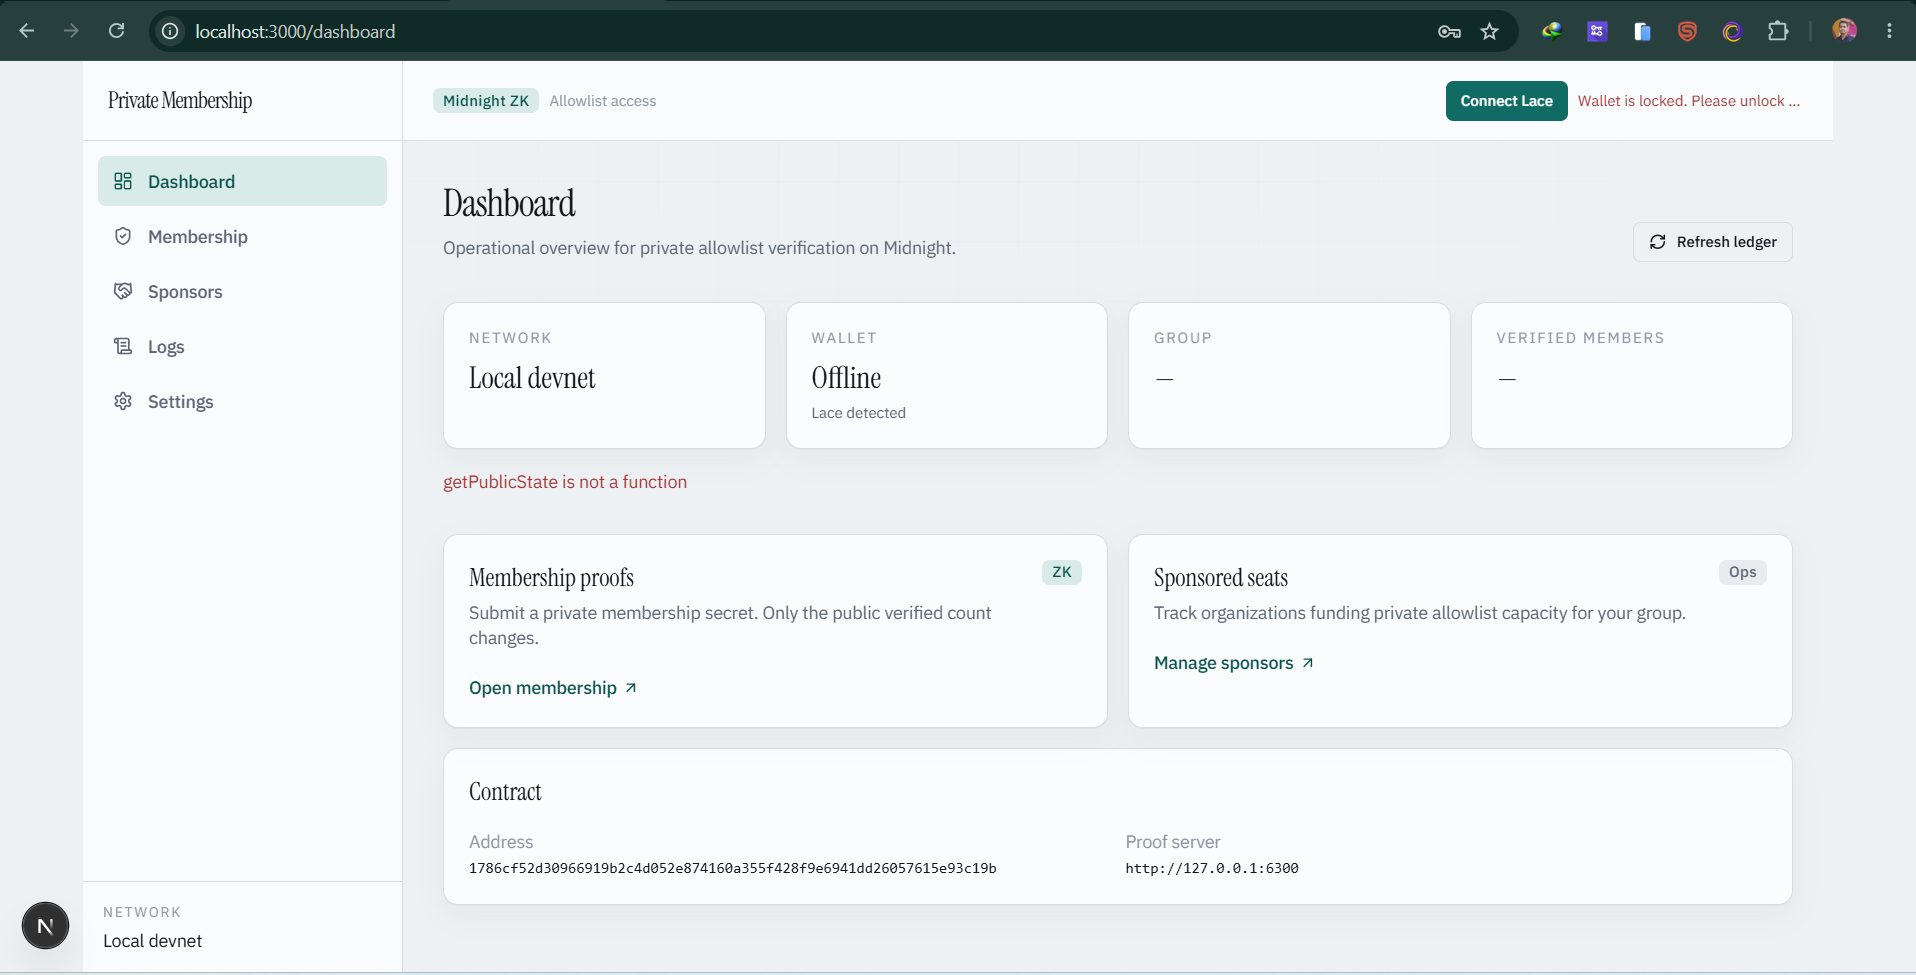
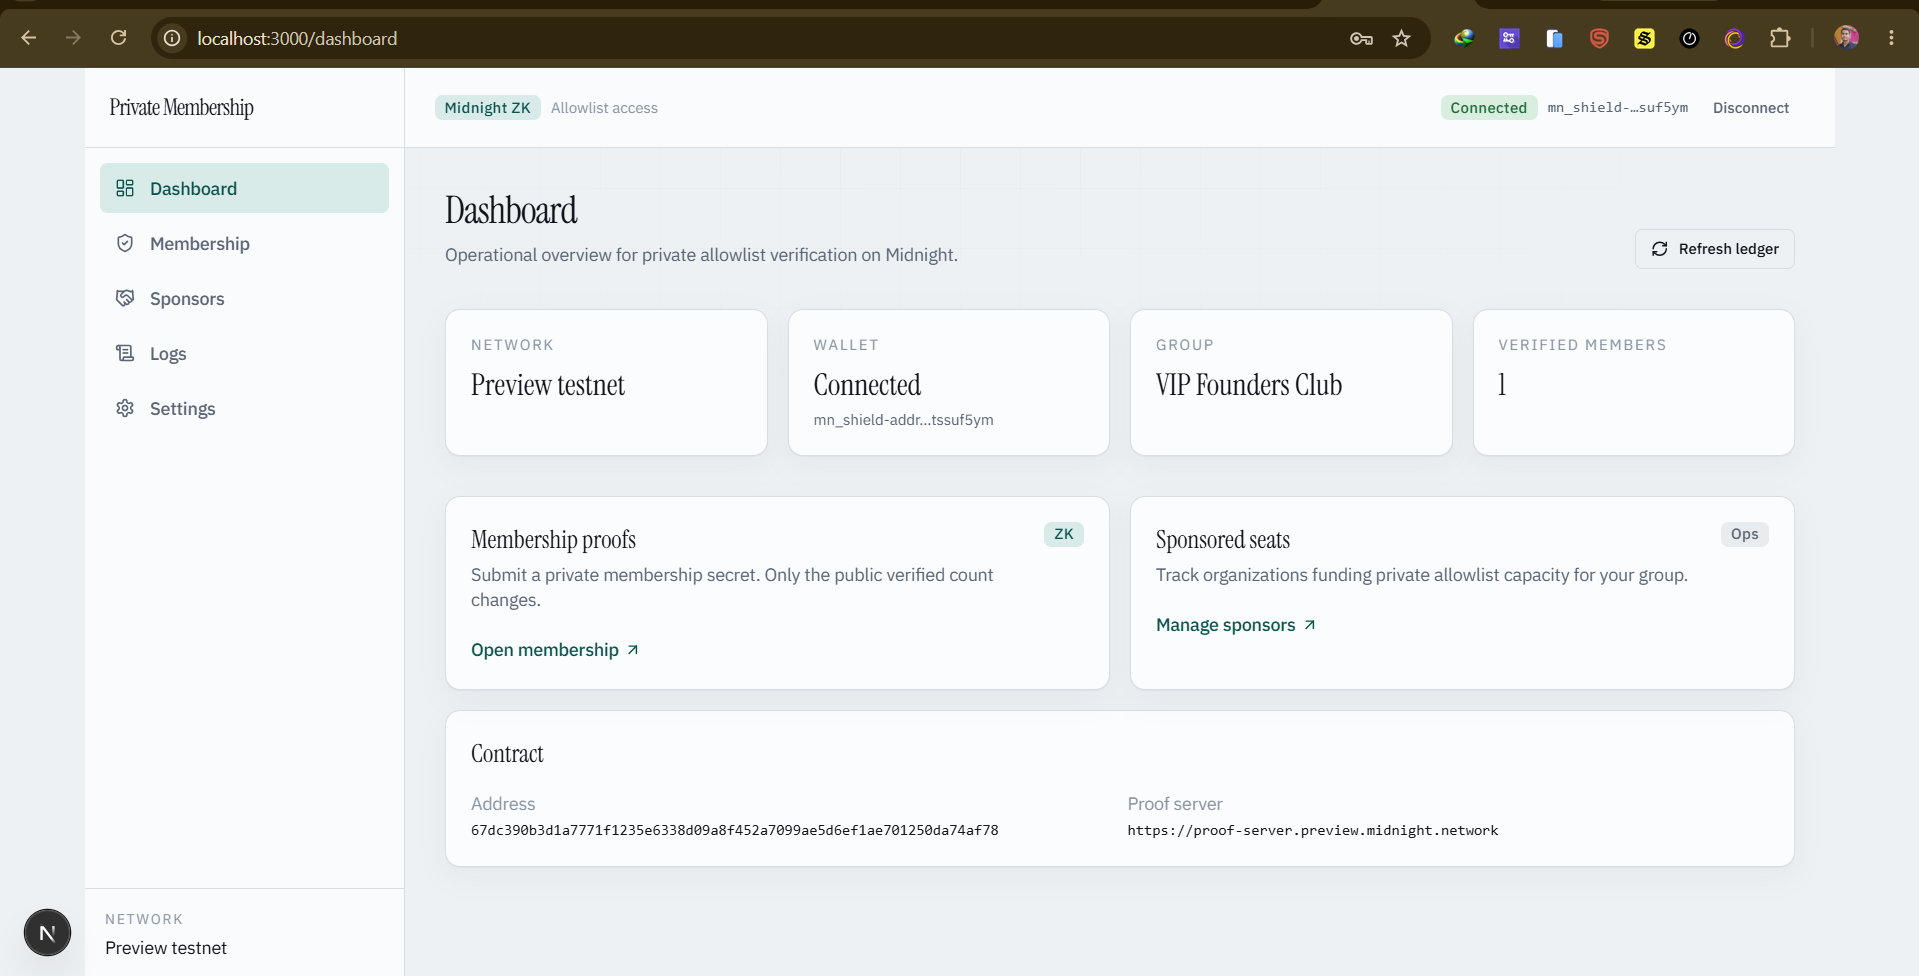
feat: add Preview browser Deploy and publish membership contract  Wire 1AM Preview deploy path (proof proxy, offset shim, TLA client loader) and document contract 67dc390b…da74af78.

diff --git a/README.md b/README.md
@@ -10,6 +10,13 @@
 [![Node.js](https://img.shields.io/badge/Node.js-22+-10b981?style=flat-square)](https://nodejs.org)
 [![License](https://img.shields.io/badge/License-MIT-blue.svg?style=flat-square)](LICENSE)
 
+<p>
+  <a href="https://private-membership-verification.vercel.app/"><img src="https://img.shields.io/badge/Open_Live_App-000000?style=for-the-badge&logo=vercel&logoColor=white" alt="Open Live App" /></a>
+  <a href="https://youtu.be/gnPuRBhZtxc"><img src="https://img.shields.io/badge/Watch_Demo-FF0000?style=for-the-badge&logo=youtube&logoColor=white" alt="Watch Demo" /></a>
+  <a href="https://preview.midnightexplorer.com/contracts/0x67dc390b3d1a7771f1235e6338d09a8f452a7099ae5d6ef1ae701250da74af78"><img src="https://img.shields.io/badge/View_on_Explorer-0ea5e9?style=for-the-badge" alt="View on Explorer" /></a>
+  <a href="https://github.com/saikat-tanti/private-membership-verification/actions/workflows/ci.yml"><img src="https://img.shields.io/badge/GitHub_Actions-2088FF?style=for-the-badge&logo=githubactions&logoColor=white" alt="GitHub Actions" /></a>
+</p>
+
 ---
 
 ## Links
@@ -29,6 +36,40 @@
 CI installs Compact **0.31.1**, runs `npm run compile`, `npm test`, and builds the Next.js frontend.
 
 **Verified on Midnight Preview** via **1AM**: contract deployed (`VIP Founders Club`). Prefer Settings → paste the Preview address (faster than re-deploying).
+
+---
+
+## Screenshots & UI Showcase
+
+### 1. Landing
+Product entry for private allowlist membership on Midnight Preview.
+
+<img src="membership-ui/public/landing.png" alt="Landing" width="800" />
+
+### 2. Dashboard
+Network badge, wallet status, public `groupName`, and live `verifiedMemberCount`.
+
+<img src="membership-ui/public/dashboard.png" alt="Dashboard" width="800" />
+
+### 3. Membership
+Private secret witness → ZK prove → on-chain count increment.
+
+<img src="membership-ui/public/membership.png" alt="Membership" width="800" />
+
+### 4. Sponsors
+Off-chain sponsor seat roster (not on the public ledger).
+
+<img src="membership-ui/public/sponsor.png" alt="Sponsors" width="800" />
+
+### 5. Logs
+Local browser activity trail for connect, deploy, and verify.
+
+<img src="membership-ui/public/logs.png" alt="Logs" width="800" />
+
+### 6. Settings
+1AM **Deploy on Preview**, paste/save contract address, and indexer / prover URIs.
+
+<img src="membership-ui/public/settings.png" alt="Settings" width="800" />
 
 ---
 
@@ -79,8 +120,9 @@ DAOs and gated communities often force members to reveal wallets or secrets on-c
 | --- | --- |
 | Live UI | [private-membership-verification.vercel.app](https://private-membership-verification.vercel.app/) |
 | Demo video | [YouTube](https://youtu.be/gnPuRBhZtxc) |
[4 lines of base64/hex data omitted]
 
 ### Mentor guidance (Preprod)
 
@@ -92,10 +134,10 @@ Preprod wallet sync timed out (`Wallet.Sync`) before deploy completed. Submissio
 
 ```env
 VITE_NETWORK=preview
-VITE_CONTRACT_ADDRESS=<preview-contract-address>
+VITE_CONTRACT_ADDRESS=67dc390b3d1a7771f1235e6338d09a8f452a7099ae5d6ef1ae701250da74af78
 VITE_INDEXER_URI=https://indexer.preview.midnight.network/api/v4/graphql
 VITE_INDEXER_WS_URI=wss://indexer.preview.midnight.network/api/v4/graphql/ws
-VITE_PROOF_SERVER_URL=http://127.0.0.1:6300
+VITE_PROOF_SERVER_URL=https://proof-server.preview.midnight.network
 ```
 
 Or paste the address in **Settings** and connect 1AM/Lace on **Preview**. Faucet: https://faucet.preview.midnight.network/
@@ -204,28 +246,6 @@ npm test
 - [x] Polished multi-page UI
 - [x] ≥10 meaningful commits
 - [x] No secrets / seeds / `.midnight-state.json` in git
-
----
-
-## Screenshots
-
-### Landing
-![Landing](membership-ui/public/landing.png)
-
-### Dashboard
-![Dashboard](membership-ui/public/dashboard.png)
-
-### Membership
-![Membership](membership-ui/public/membership.png)
-
-### Sponsors
-![Sponsors](membership-ui/public/sponsor.png)
-
-### Logs
-![Logs](membership-ui/public/log.png)
-
-### Settings
-![Settings](membership-ui/public/settings.png)
 
 ---
 
